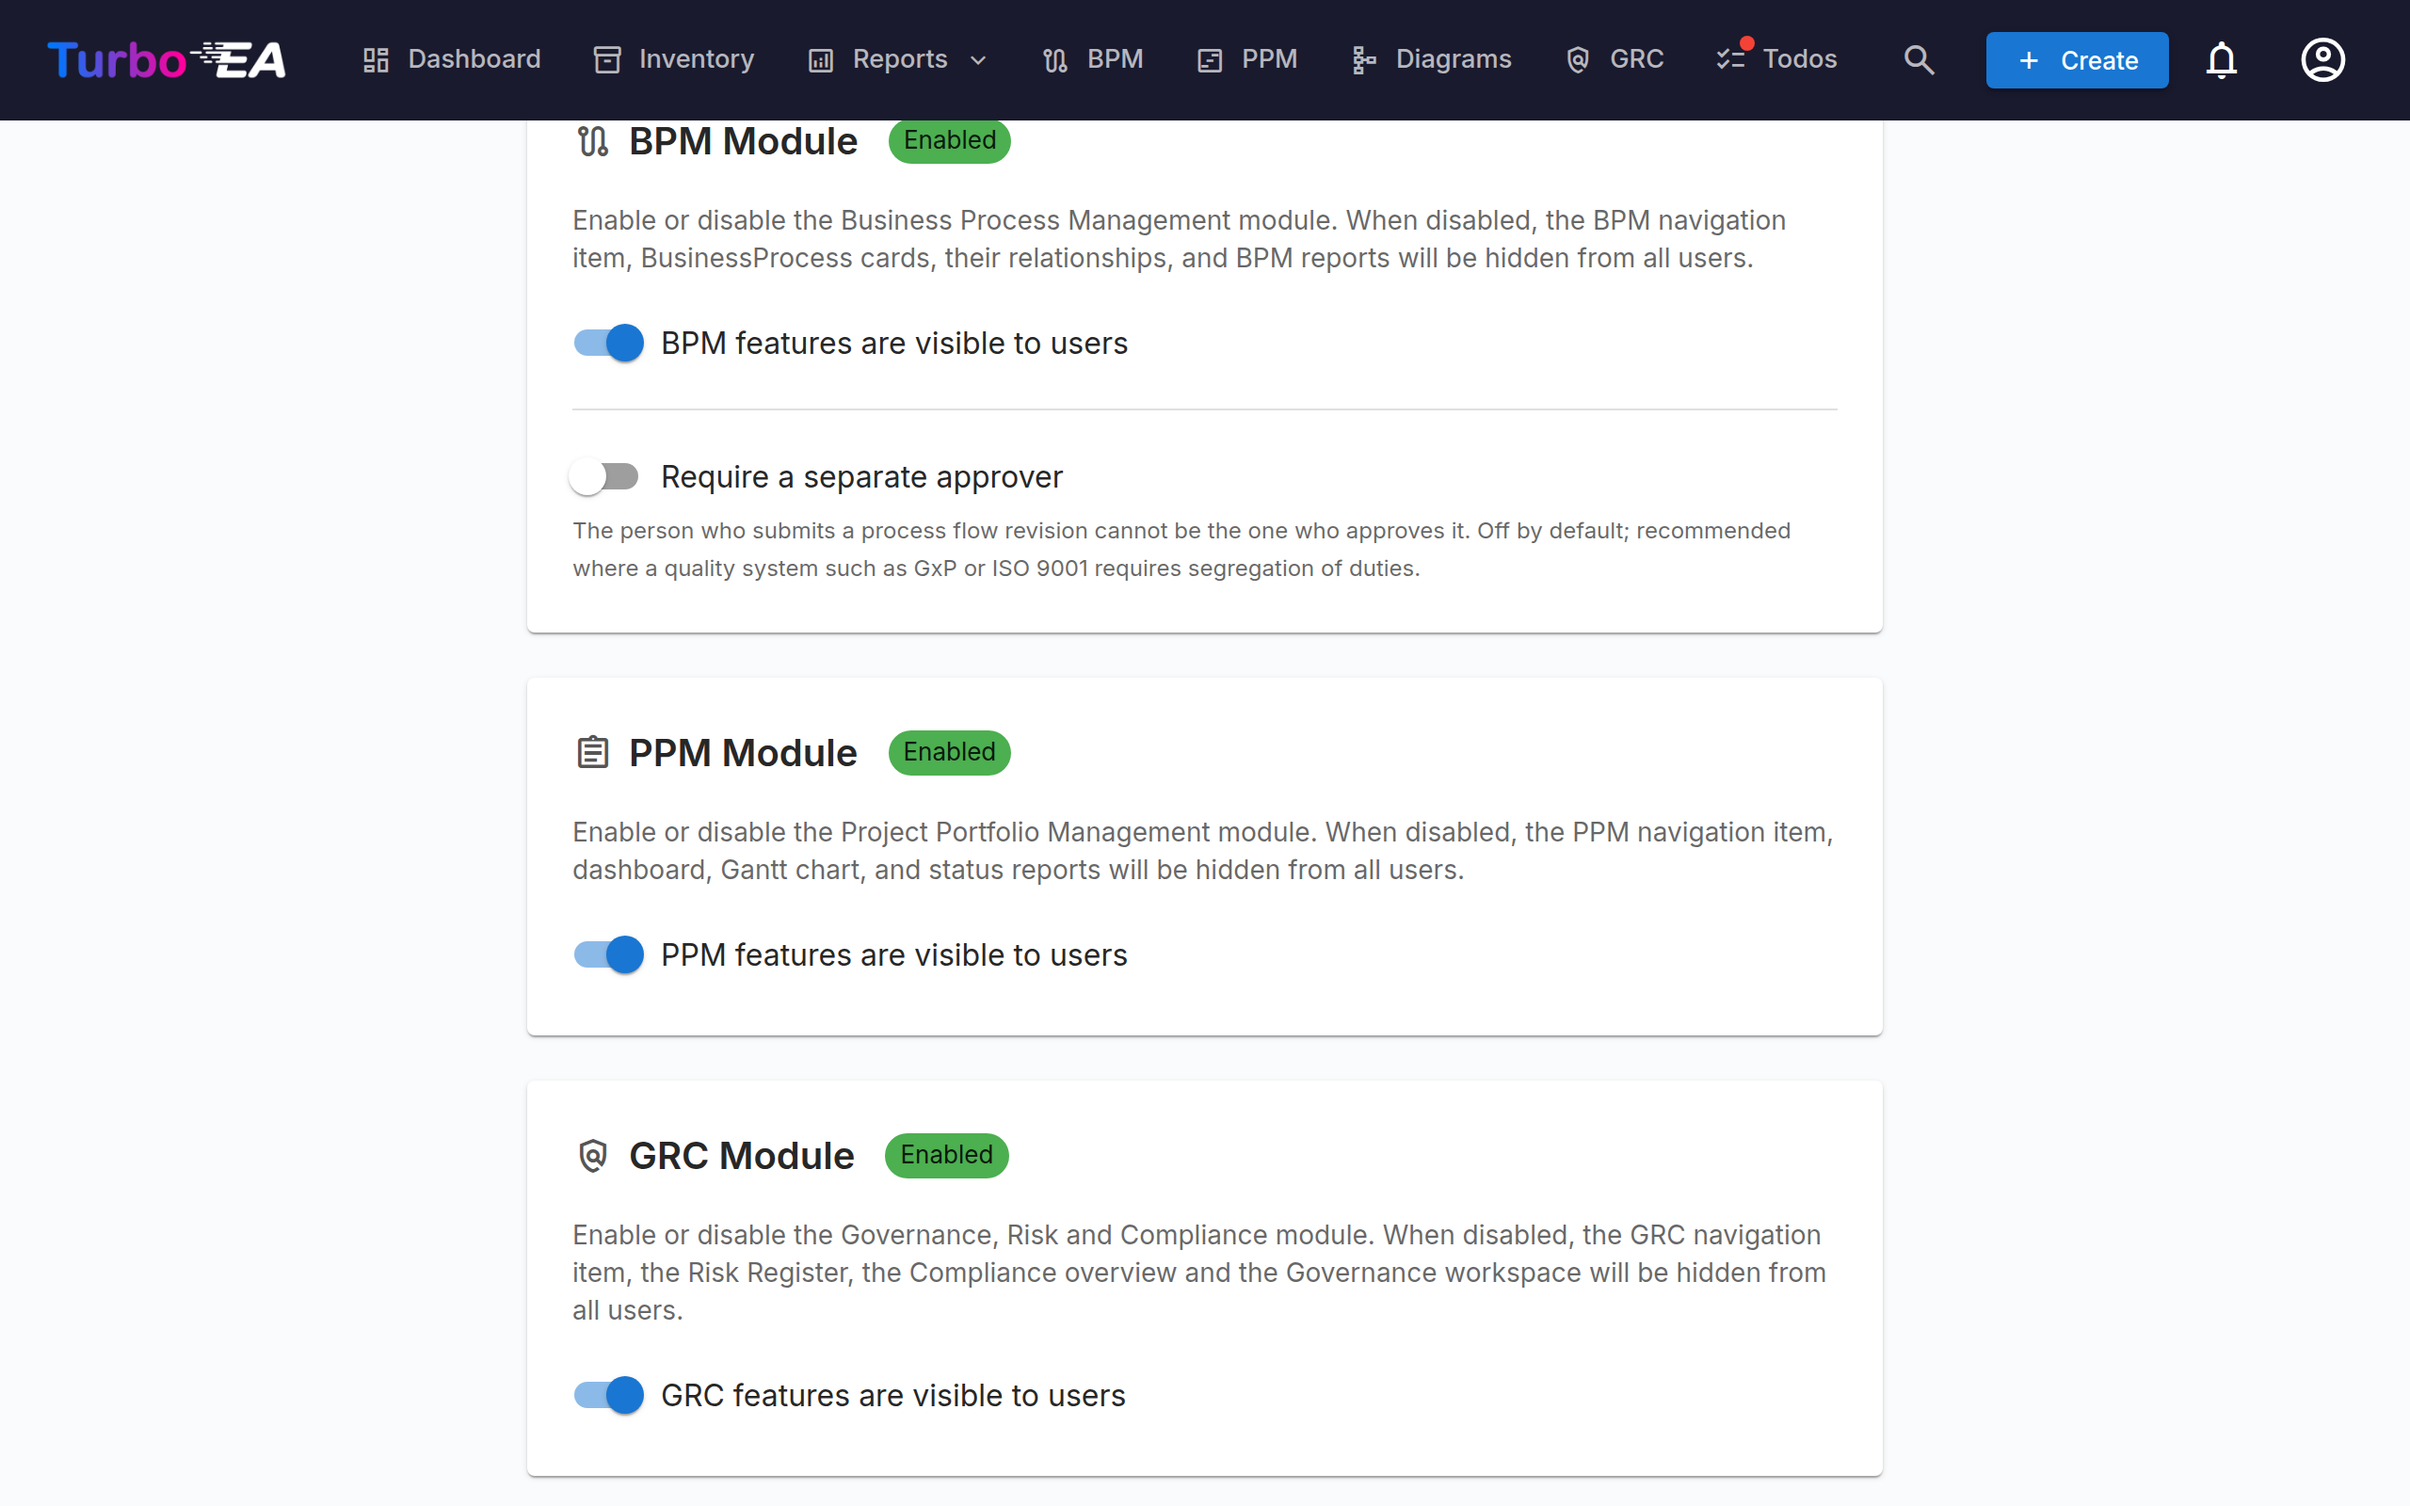
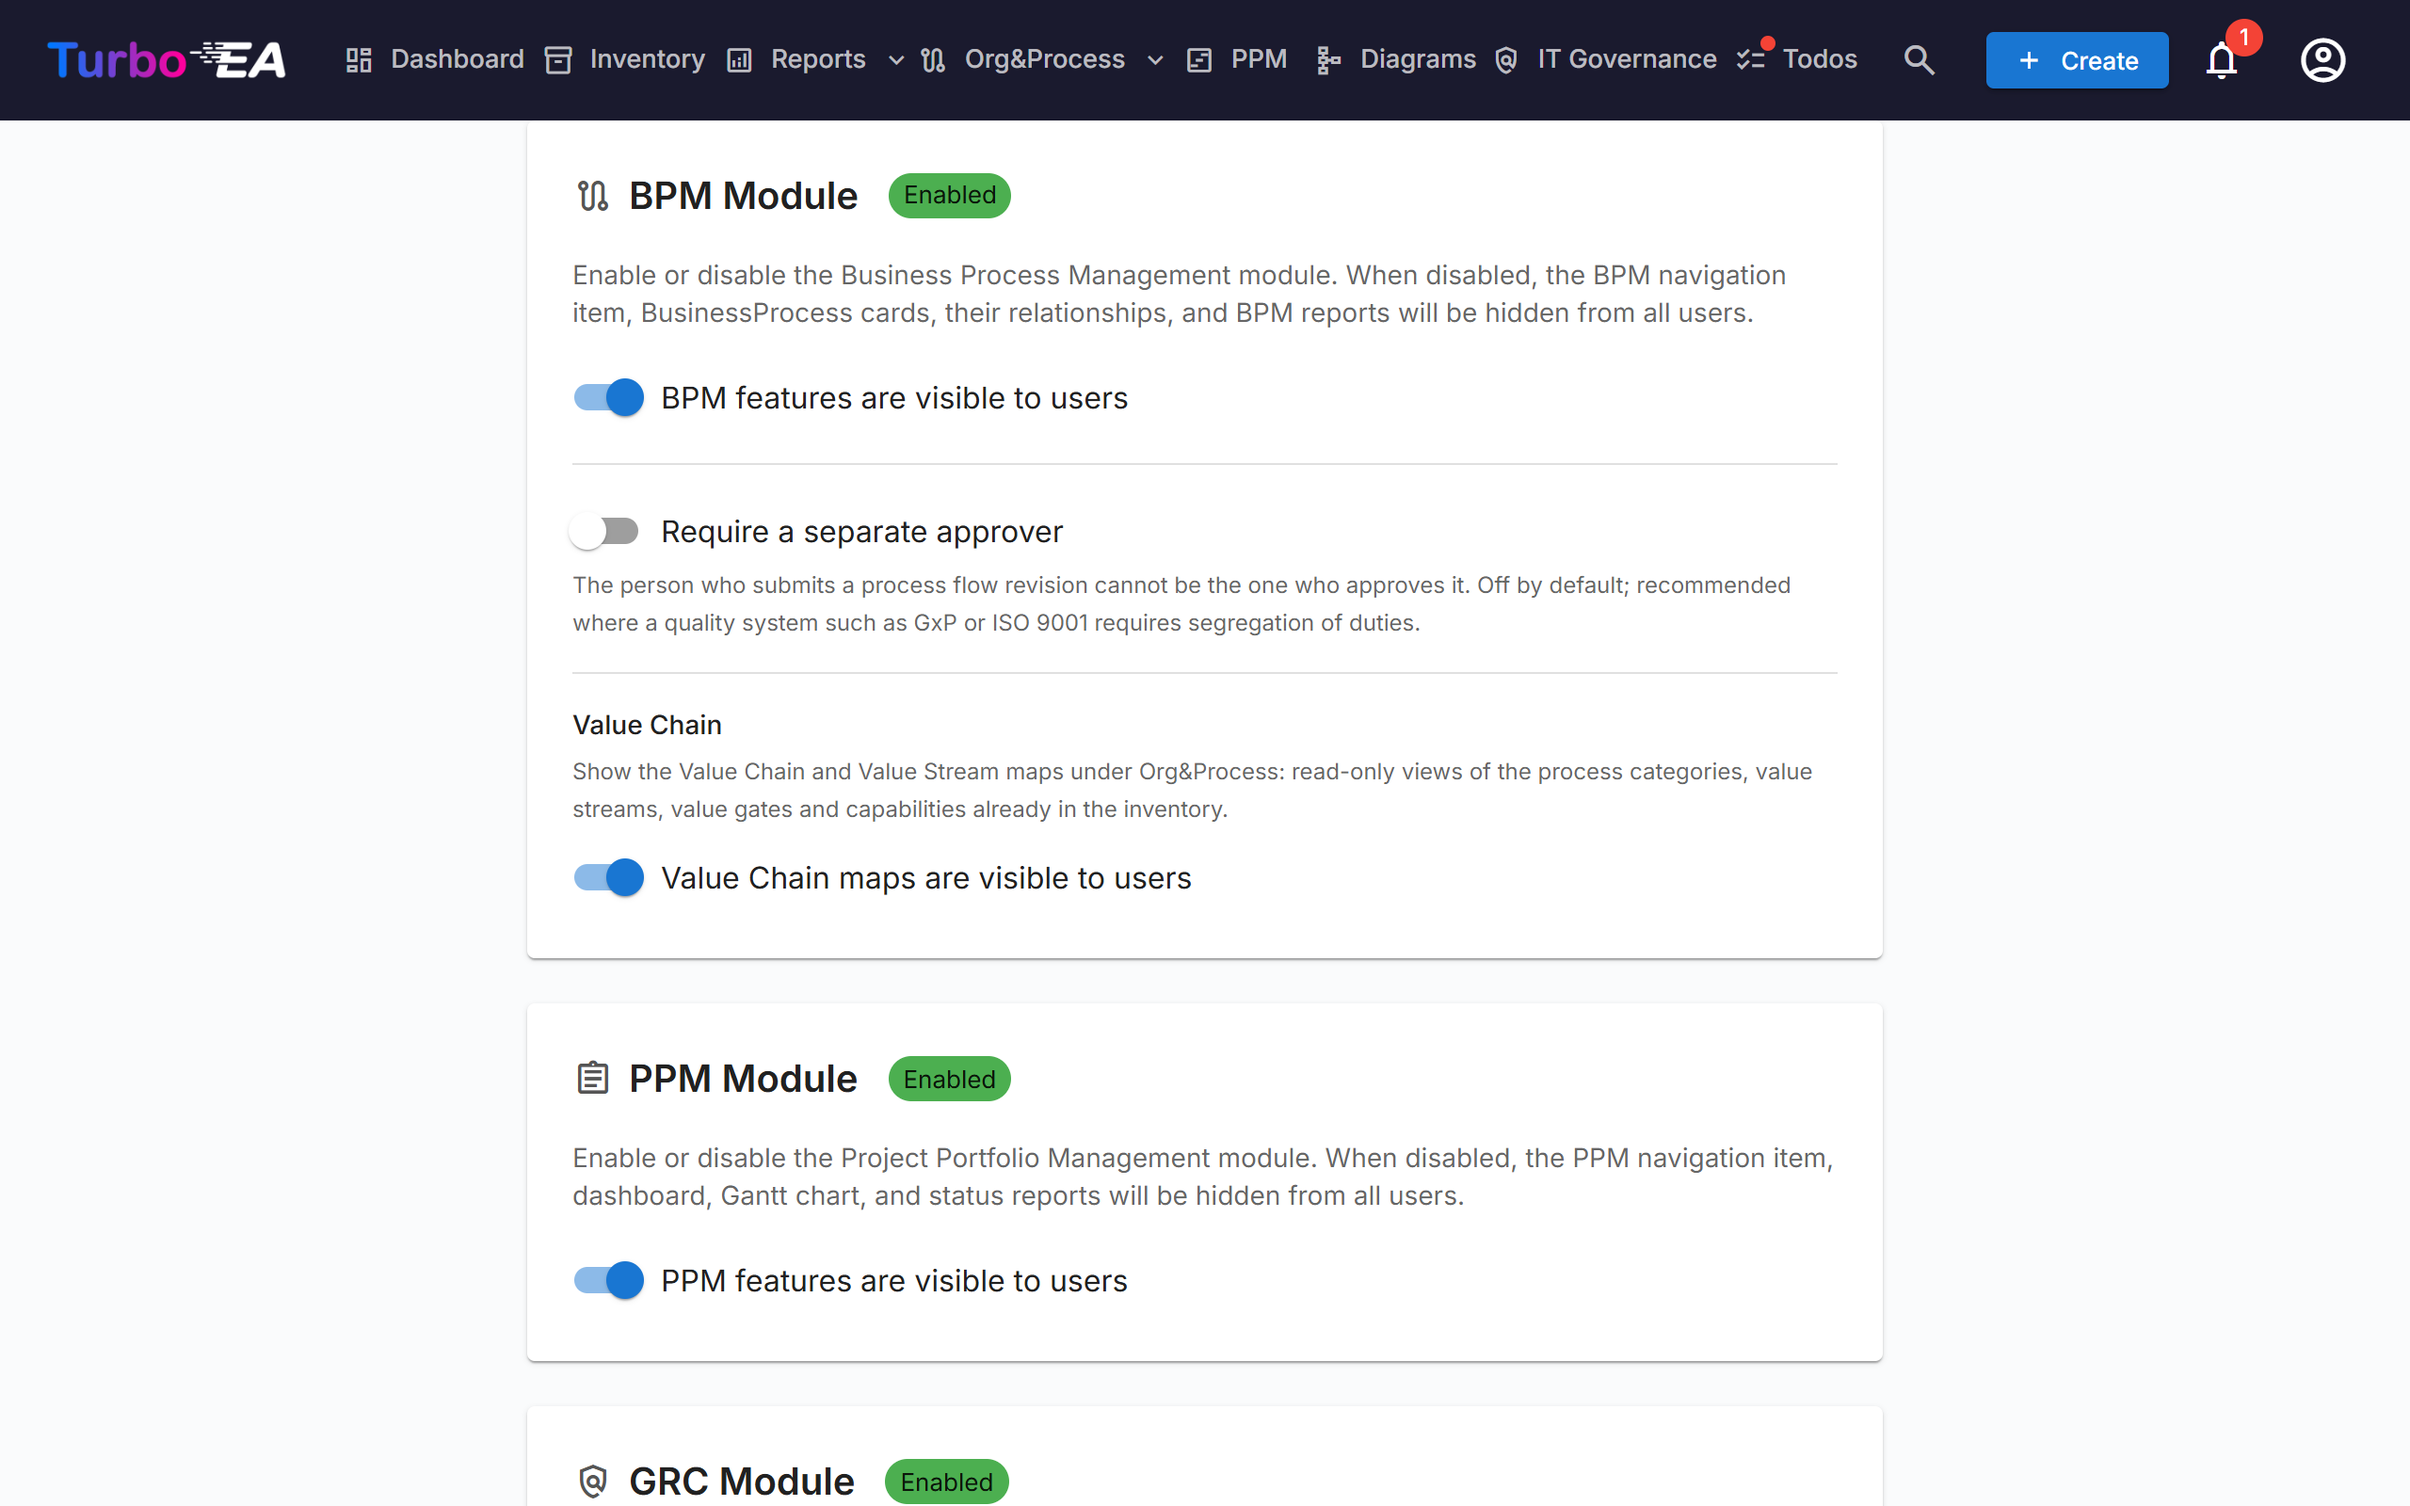
docs(screenshots): capture the Value Chain pages and refresh the modules shot
Adds the 100_value_chain and 101_value_stream_map entries (the map opens from
the demo "Core Business Processes" category) and starts the Settings modules
shot at the BPM block, which now carries the Value Chain switch. Images are
captured for all ten locales.

diff --git a/scripts/screenshots/pages.ts b/scripts/screenshots/pages.ts
@@ -76,6 +76,9 @@ export const CARD_LOOKUPS = {
   sampleApp: { name: "SAP S/4HANA", type: "Application" },
   sampleInitiative: { name: "SAP S/4HANA Migration", type: "Initiative" },
   sampleProcess: { name: "Order to Cash", type: "BusinessProcess" },
+  // A process category (subtype Category) that the demo value streams hang off —
+  // the Value Stream Map opens from a category (`?category=<id>`).
+  sampleProcessCategory: { name: "Core Business Processes", type: "BusinessProcess" },
   // An L1 capability whose sub-capabilities carry the relations — used for the
   // "+N in sub-items" roll-up shots. Chosen because its descendants span two
   // application subtypes, so the drawer shows real grouping rather than one
@@ -2130,12 +2133,14 @@ export const DOC_PAGES: PageDef[] = [
     waitFor: ".MuiPaper-root",
     actions: [
       { type: "wait", ms: 800 },
-      // Centre the PPM toggle so BPM sits above it and GRC below.
+      // Start at the BPM block (it now carries the Value Chain switch and is
+      // taller), so PPM and GRC follow it in the same frame.
       {
         type: "scroll",
-        target: i18nLabels("admin:settings.ppm.title")
+        target: i18nLabels("admin:settings.bpm.title")
           .map((l) => `h6:has-text("${hasTextArg(l)}")`)
           .join(", "),
+        align: "start",
       },
       { type: "wait", ms: 400 },
     ],
@@ -2443,6 +2448,49 @@ export const DOC_PAGES: PageDef[] = [
       pt: "99b_diagrama_visualizacao_legenda",
       zh: "99b_diagram_viewer_legend",
       ru: "99b_diagramma_prosmotr_legenda",
+    },
+  },
+  {
+    id: "100_value_chain",
+    route: "/value-chain",
+    waitFor: ".MuiPaper-root",
+    actions: [{ type: "wait", ms: 1200 }],
+    filenames: {
+      en: "100_value_chain",
+      de: "100_wertschoepfungskette",
+      fr: "100_chaine_de_valeur",
+      es: "100_cadena_de_valor",
+      it: "100_catena_del_valore",
+      pt: "100_cadeia_de_valor",
+      zh: "100_value_chain",
+      ru: "100_value_chain",
+    },
+  },
+  {
+    id: "101_value_stream_map",
+    route: "/value-chain/value-stream?category={{cardId:sampleProcessCategory}}",
+    waitFor: ".MuiPaper-root",
+    actions: [
+      { type: "wait", ms: 1200 },
+      // The value gate band starts folded; open it so the gate pills show.
+      {
+        type: "click",
+        selector: i18nLabels("valuechain:actions.expand")
+          .map((l) => `button[aria-label="${hasTextArg(l)}"]`)
+          .join(", "),
+        nth: 0,
+      },
+      { type: "wait", ms: 600 },
+    ],
+    filenames: {
+      en: "101_value_stream_map",
+      de: "101_wertstromkarte",
+      fr: "101_carte_flux_de_valeur",
+      es: "101_mapa_flujo_de_valor",
+      it: "101_mappa_flusso_di_valore",
+      pt: "101_mapa_fluxo_de_valor",
+      zh: "101_value_stream_map",
+      ru: "101_value_stream_map",
     },
   },
 
